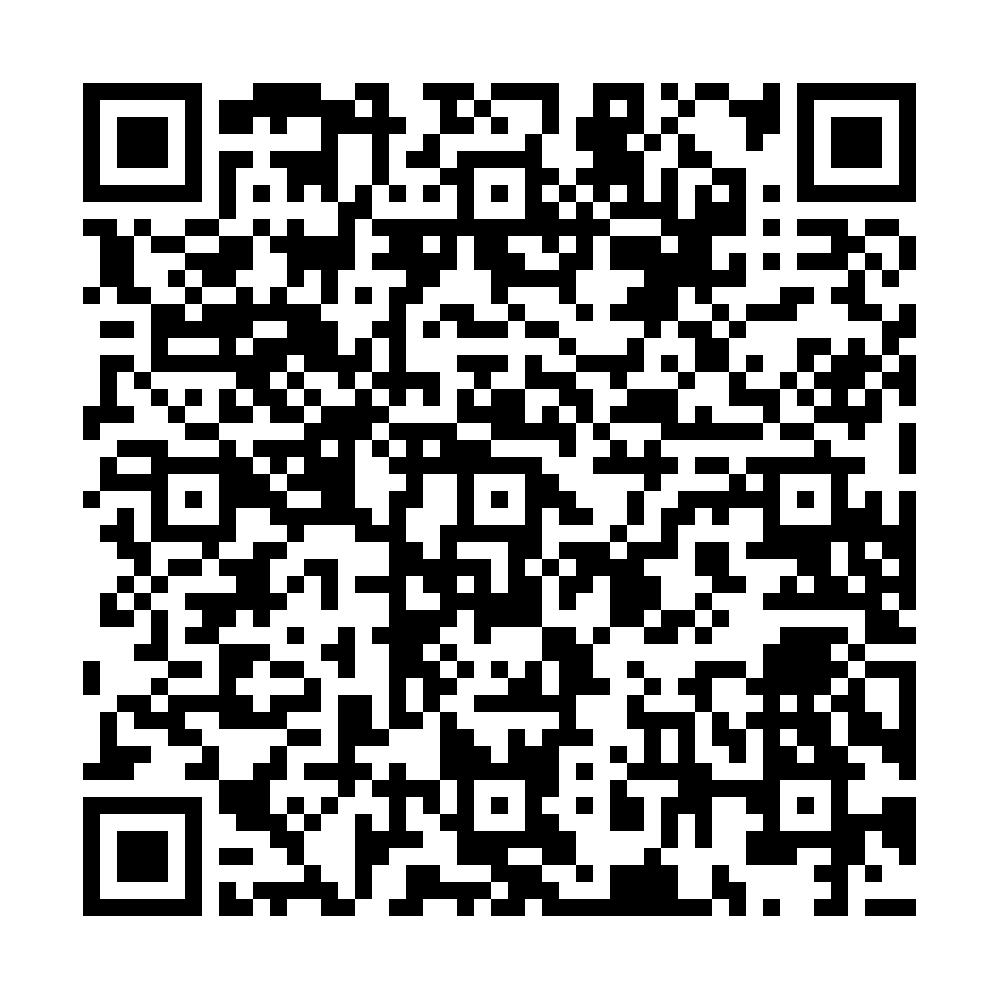
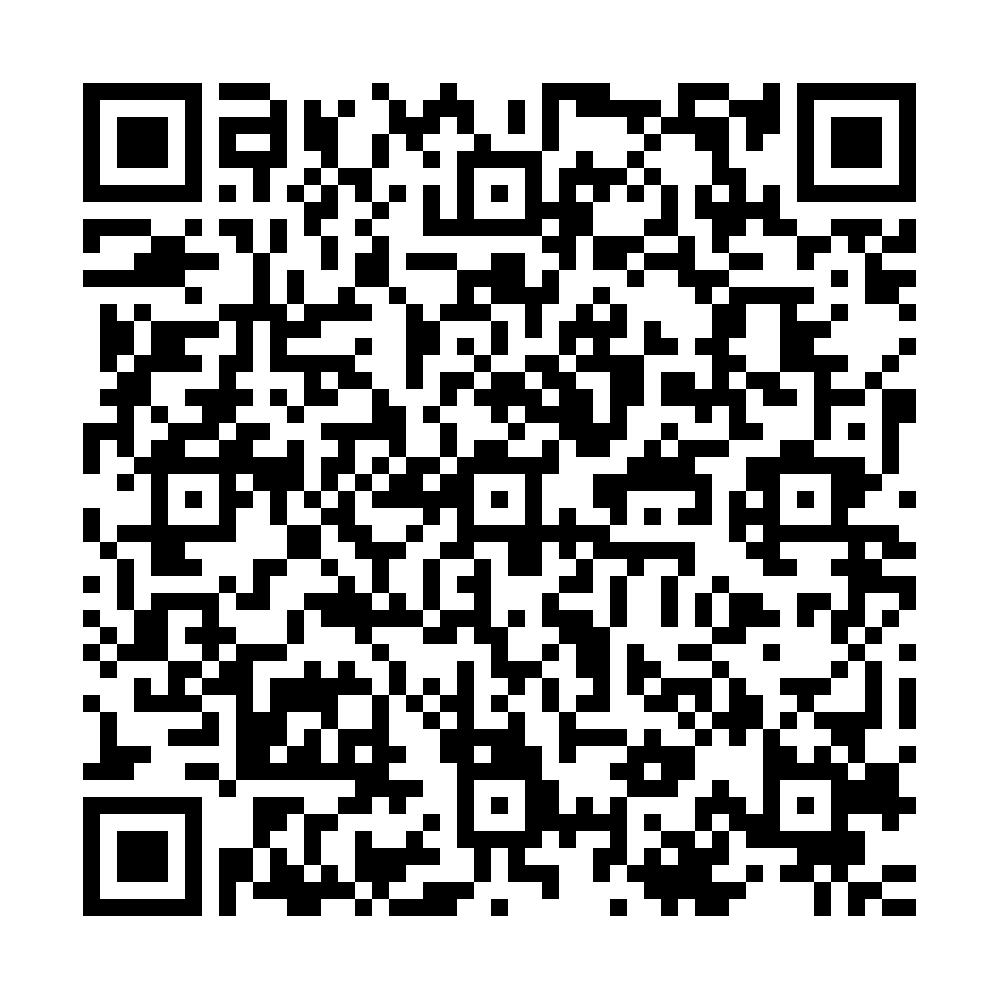
New edition Sexta da Advocacia

Changed region(s): [[0.062, 0.062, 0.93, 0.93], [0.744, 0.186, 0.775, 0.217]]

diff --git a/index.html b/index.html
@@ -16,30 +16,24 @@
     <img src="logo.png" alt="Logo do Escritório">
   </div>
   <div class="content">
-    <h1>Sexta da Advocacia</h1>
+   <h1>Sexta da Advocacia</h1> 
     <br />
-    <p>Prepare-se para um dia feito sob medida para quem enxerga a advocacia como força coletiva de transformação! </p>
+    <p>Prepare-se para um momento sob medida para quem enxerga a advocacia como força coletiva de transformação! </p>
     <br />
-    <p>A Sexta da Advocacia irá invadir o sábado com:</p>
-    <ul>
-      <li>2 painéis de discussão sobre tendências, tecnologia e práticas colaborativas;</li>
-      <li>Auditório exclusivo para inspirar debates profundos e troca de ideias;</li>
-      <li>Coquetel de relacionamento ao final da programação – porque grandes parcerias começam em boas conversas;</li>
-      <li>Muita conversa e networking qualificado, reunindo profissionais, estudantes e entusiastas que acreditam em uma nova advocacia: diversa, inovadora e cooperativa.</li>
-    </ul>
+    <p>Nessa edição vamos nos reunir em uma cafeteria aconchegante para trocar ideias, fortalecer conexões e falar sobre a advocacia moderna e colaborativa.</p>
     <br />
-    <p><strong>Venha compartilhar experiências, aprender com especialistas e ampliar sua rede!</strong></p>
+    <p><strong>Venha compartilhar experiências, aprender e ampliar sua rede!</strong></p>
 
     <br />
-    <p><strong>Data: </strong> 26/07/2025  14h - 18h</p>
+    <p><strong>Data: </strong> 29/09/2025  16h </p>
     <p><strong>Local:</strong>
       <a
         class="map-link"
-        href="https://maps.app.goo.gl/Z6zRBbVvxaJ2EjQw9"
+        href="https://maps.app.goo.gl/3JQauqZ1att2rh7s9"
         target="_blank"
         rel="noopener noreferrer"
       >
-        Rua Luiz Barbalho 149, Boa Vista, Recife-PE
+        So Lo Brewing, Boa Viagem
       </a>
     </p>
     <br />

diff --git a/comprar.html b/comprar.html
@@ -16,14 +16,14 @@
   <div class="content">
 
     <h1>Comprar Ingresso</h1>
-    <p><strong>Valor do Ingresso:</strong> R$ 60</p>
+    <p><strong>Valor do Ingresso:</strong> R$ 10</p>
 
     <div class="pix-info">
       <strong>Chave Pix:</strong>
-      <img src="qrcodepix.png" alt="Logo do Escritório">
+      <img src="qrcodepix.png" alt="Qcode Pagamento">
   
       <div class="pix-code-container">
-        <span id="pix-code" class="pix-code-display">00020126580014br.gov.bcb.pix0111090824124030221Ingresso sexta da adv520400005303986540560.005802BR5925MARIA CLARA REVOREDO GALI6006RECIFE6229052571HJyB8kBgaD3YqVU0kdF0TNH63040C23</span>
+        <span id="pix-code" class="pix-code-display">00020126400014br.gov.bcb.pix0111090824124030203Pix520400005303986540510.005802BR5925MARIA CLARA REVOREDO GALI6006RECIFE62290525C1Yx5jZWWbwnOda28si2s06mz6304ECCF</span>
         <button id="copy-pix-btn" class="copy-btn">Copiar Código</button>
       </div>
       <span id="copy-feedback" class="copy-feedback">Copiado!</span>
@@ -34,7 +34,7 @@
 
   <!-- Substitua '55DD9XXXXXXXX' pelo seu número de WhatsApp com código do país e DDD -->
   <!-- Exemplo para Brasil, DDD 11, número 99999-9999: '5511999999999' -->
-  <a href="https://wa.me/5581997389087?text=Olá! Fiz o pagamento do ingresso e gostaria de confirmar minha compra." target="_blank" class="btn">
+  <a href="https://wa.me/5581997389087?text=Olá! Fiz o pagamento do ingresso e gostaria de confirmar minha presença na Sexta da Advocacia." target="_blank" class="btn">
     Entrar em Contato via WhatsApp
   </a>
 
